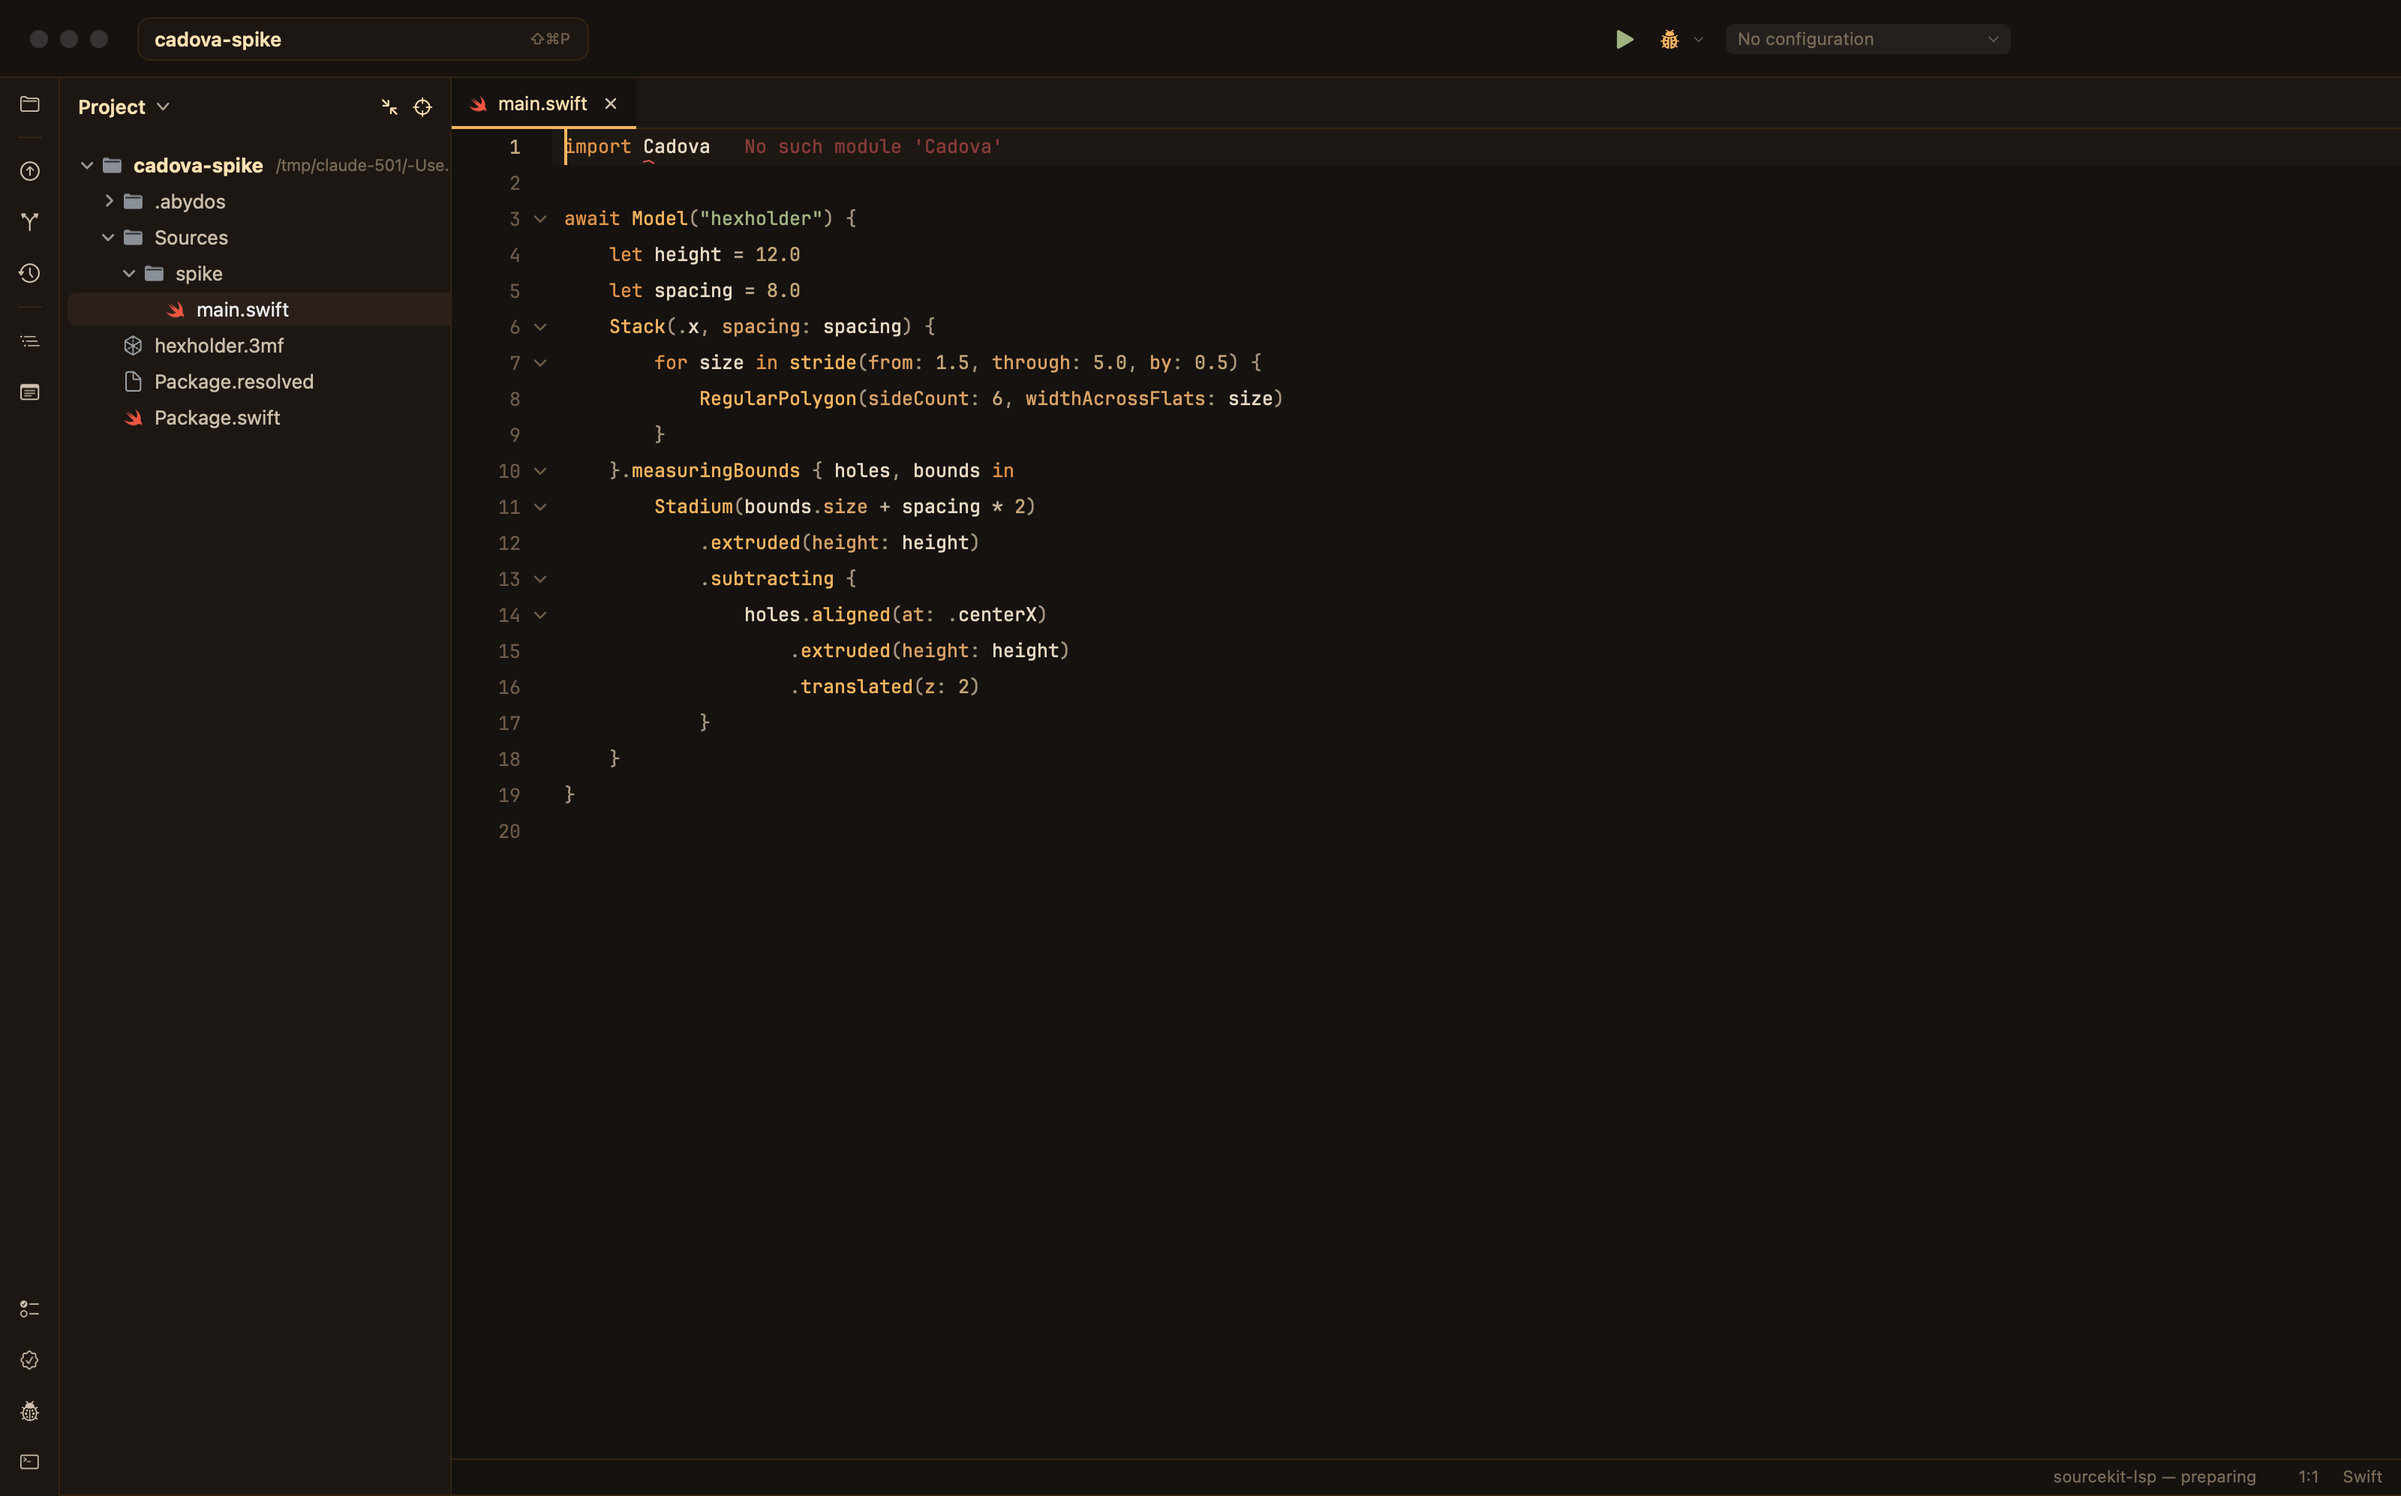
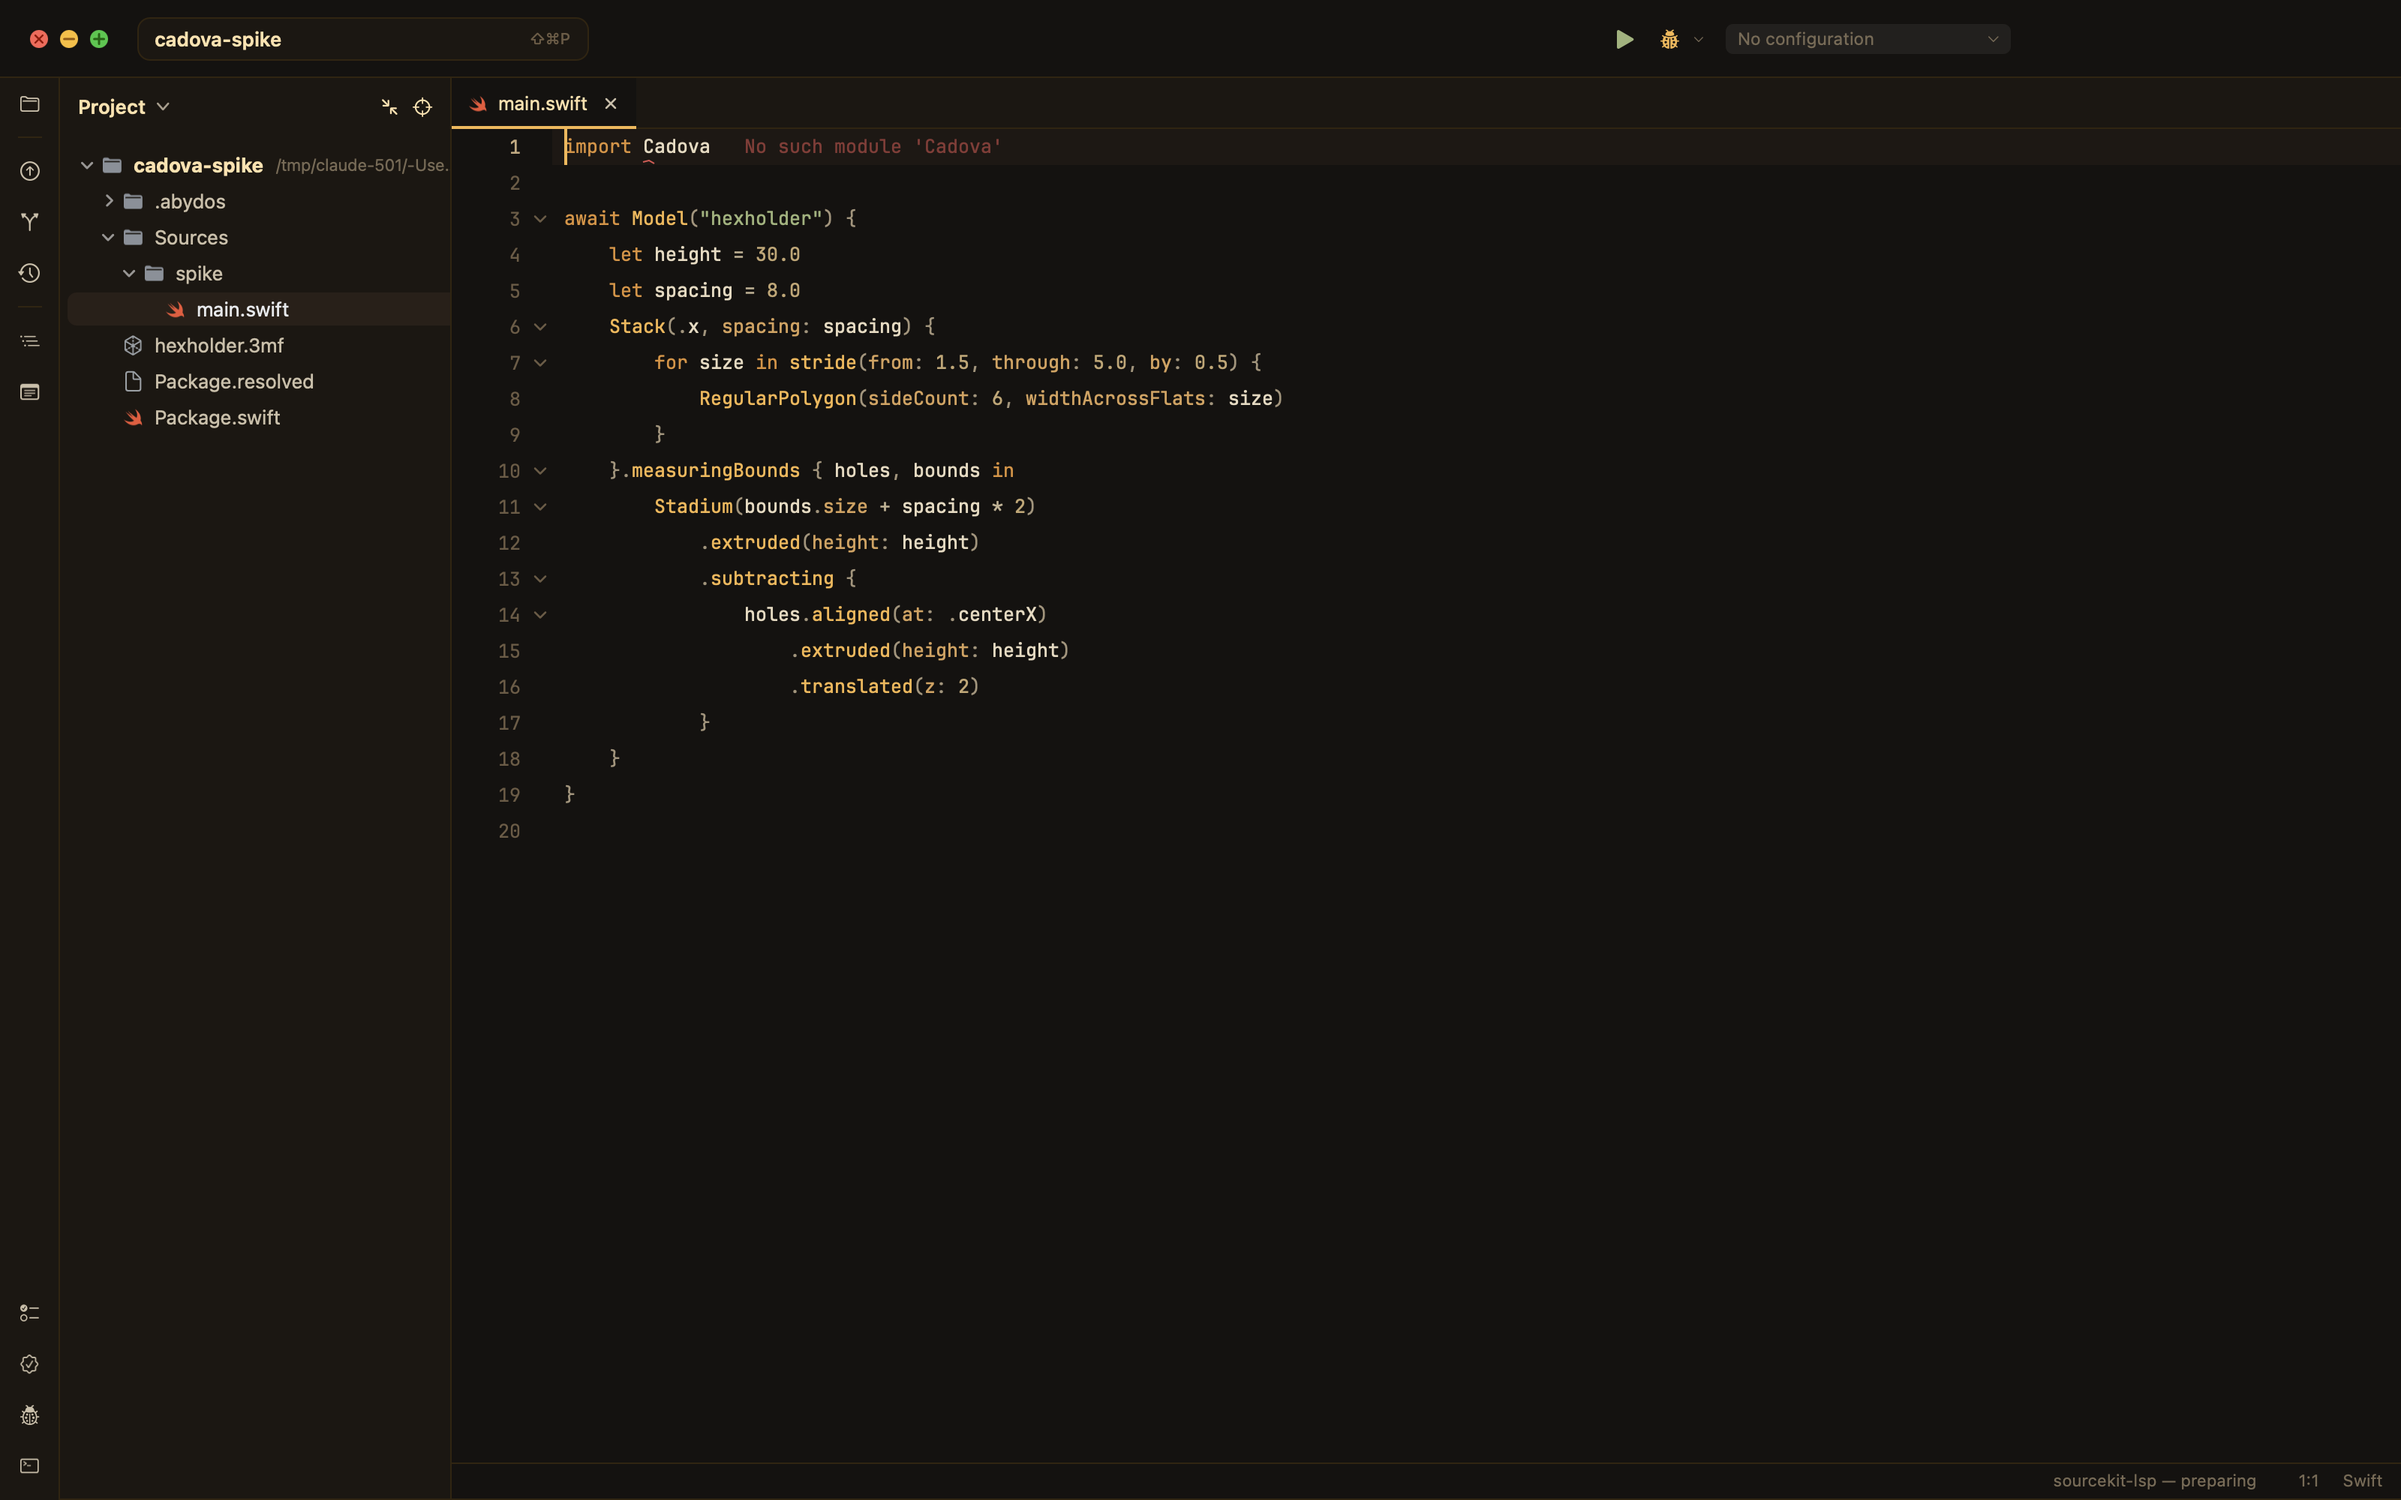
0501: the final picture, and the grace in the before/after
The screenshot is retaken from the build with the grace in it, so what
the item shows is what the branch does. Suite 2638/2638, warnings clean.

diff --git a/.abydos/backlog/in-progress/0501-a-swift-file-says-a-module-does-not-exist-until-the-server/task.md b/.abydos/backlog/in-progress/0501-a-swift-file-says-a-module-does-not-exist-until-the-server/task.md
@@ -206,7 +206,11 @@ at `cfb5ecf`, `images/watch-after.png` the build with the change in.
 | footer, throughout | `sourcekit-lsp` | `sourcekit-lsp — preparing` |
 | tool tip | "sourcekit-lsp is answering for Swift in this project, from …" | "sourcekit-lsp is building what this project depends on … may be about the build rather than about the code" |
 | t+20 s | strip: *"sourcekit-lsp is running and says something is wrong with this project"*, and a red toast: *"sourcekit-lsp cannot read this project"* | nothing above the file, no toast |
-| t+70 s | error clears, footer unchanged | error clears, footer back to `sourcekit-lsp` |
+| t+70 s | error clears, footer unchanged | error clears, and a second later the footer is back to `sourcekit-lsp` — the grace, above |
+
+Both columns are the app built from this branch's own `build/Abydos.app`, driven
+by `watch501.sh` in the scratchpad, which kills only a path that exists nowhere
+but this worktree.
 
 The one thing deliberately identical in both columns is the red on line 1. That
 is the decision: nothing is hidden, and what changed is that the minute it lives
@@ -293,10 +297,6 @@ which is a different problem from this one.
   the server is fine, and 0461's three sentences are all about a server that will
   not answer. What preparation needed from `ServerHealth` was the opposite: to be
   kept *out* of it, which is what the guard does.
-
-## Estimate
-
-2026-08-16 14:25 — about an hour left
 
 ## Steps
 
